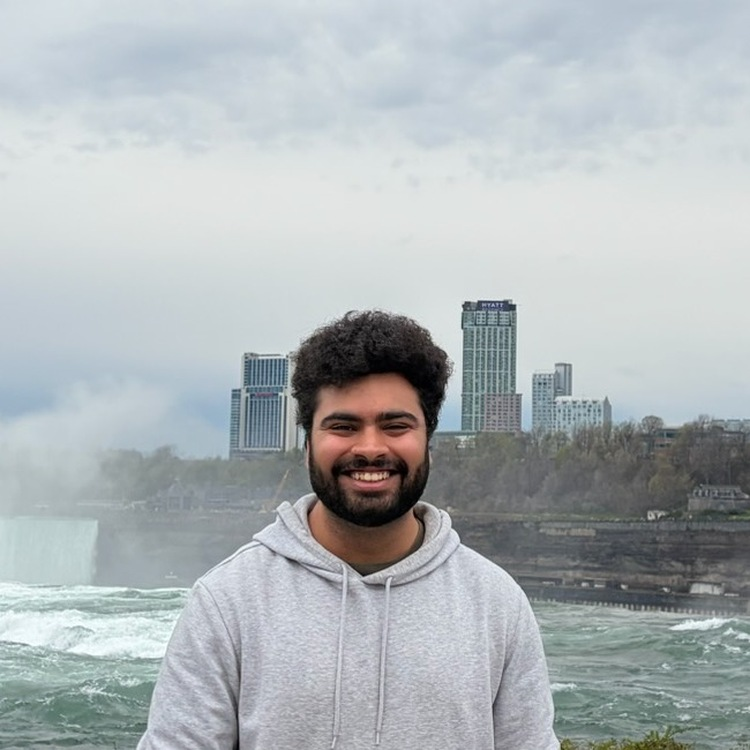
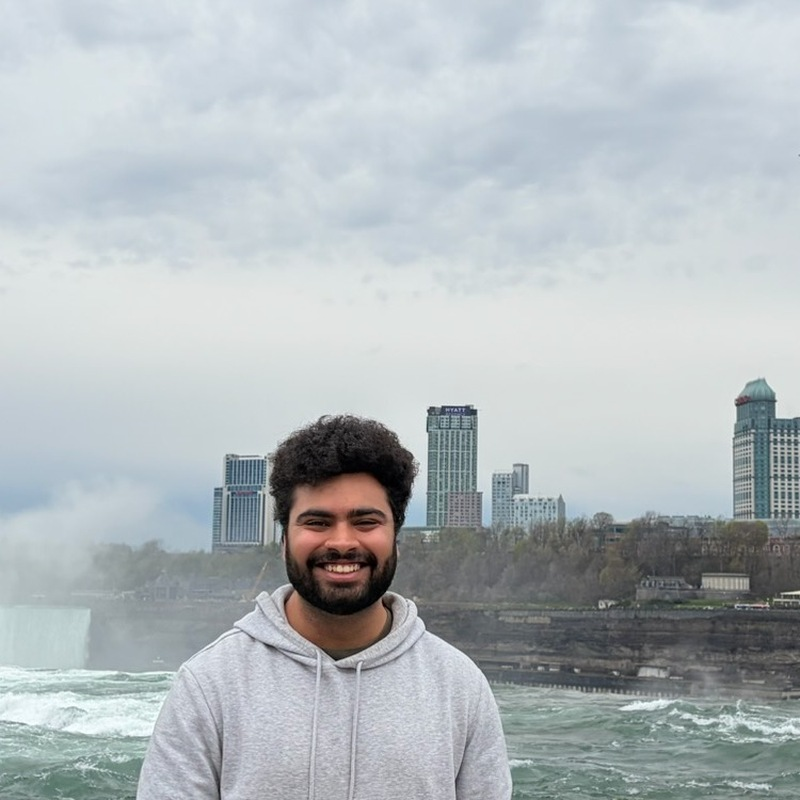
About: hobbies tags, topics pills, compact pubs, wider image crop
- Profile image: zoomed out to 750x750 (0,80,750,830 from original)
- Hobbies: yellow-border pill tags (Formula 1, Pool, Football, Indie & Alt, Cooking)
- Topics of interest: filled yellow pill tags
- Selected pubs: one-line title with ellipsis, Submitted shown inline, authors/links hidden

diff --git a/_pages/about.md b/_pages/about.md
@@ -29,10 +29,67 @@ latest_posts:
 ---
 
 <style>
+/* Selected pubs: compact one-line entries */
+.publications .author,
+.publications .periodical,
 .publications .links { display: none; }
+
+.publications .col-sm-8 {
+  display: flex;
+  align-items: baseline;
+  overflow: hidden;
+  gap: 0.5rem;
+}
+.publications .title {
+  white-space: nowrap;
+  overflow: hidden;
+  text-overflow: ellipsis;
+  flex: 1;
+  min-width: 0;
+  font-size: 0.92rem;
+}
+/* Show note (e.g. "Submitted") inline when present */
+.publications .col-sm-8 > div.periodical:nth-child(4) {
+  display: block;
+  flex-shrink: 0;
+  font-size: 0.78rem;
+  color: var(--global-text-color-light, #aaa);
+  white-space: nowrap;
+}
+
+/* Hobbies tags */
+.hobby-tags {
+  display: flex;
+  flex-wrap: wrap;
+  gap: 0.45rem;
+  margin-top: 0.5rem;
+}
+.hobby-tags span {
+  border: 1px solid var(--global-theme-color);
+  color: var(--global-text-color);
+  padding: 0.2rem 0.75rem;
+  border-radius: 20px;
+  font-size: 0.88rem;
+}
+
+/* Topics of interest */
+.topics-row {
+  display: flex;
+  flex-wrap: wrap;
+  gap: 0.45rem;
+  margin-top: 0.5rem;
+}
+.topics-row span {
+  background: var(--global-theme-color);
+  color: #111;
+  padding: 0.2rem 0.75rem;
+  border-radius: 20px;
+  font-size: 0.88rem;
+  font-weight: 600;
+}
 </style>
 
-I am a Master's student in Artificial Intelligence and Innovation at Carnegie Mellon University's School of Computer Science. I work on generative AI, computer vision, and scalable deep learning systems. Currently an ML Intern at AWS Annapurna Labs, where I am enabling diffusion and flow-matching model training on Trainium hardware.
+I am a Master's student in Artificial Intelligence and Innovation at Carnegie Mellon University's School of Computer Science. I work on generative AI, computer vision, and scalable deep learning systems. Currently an ML Intern at AWS Annapurna Labs, enabling diffusion and flow-matching model training on Trainium hardware.
 
 Before CMU, I co-founded an AI startup at Inria Startup Studio, building audio-driven video avatar generation systems showcased at VivaTech (Paris) and Bits & Pretzels (Munich). I have published in IJCV, IEEE T-BIOM, and Applied Intelligence, with work spanning video/image generation and detection, robot learning, and biometric restoration.
 
@@ -40,10 +97,21 @@ Before CMU, I co-founded an AI startup at Inria Startup Studio, building audio-d
 
 **Hobbies**
 
-Formula 1, pool, football (soccer), indie and alt music, cooking.
+<div class="hobby-tags">
+  <span>Formula 1</span>
+  <span>Pool</span>
+  <span>Football</span>
+  <span>Indie &amp; Alt Music</span>
+  <span>Cooking</span>
+</div>
 
 <br>
 
 **Topics of Interest**
 
-Computer vision &nbsp;·&nbsp; Large-scale model training &nbsp;·&nbsp; Robot learning &nbsp;·&nbsp; Diffusion and flow matching
+<div class="topics-row">
+  <span>Computer Vision</span>
+  <span>Large-Scale Model Training</span>
+  <span>Robot Learning</span>
+  <span>Diffusion &amp; Flow Matching</span>
+</div>